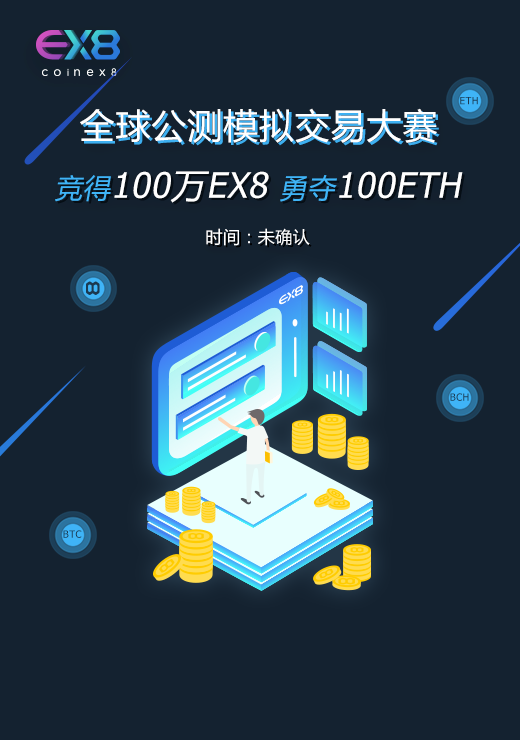
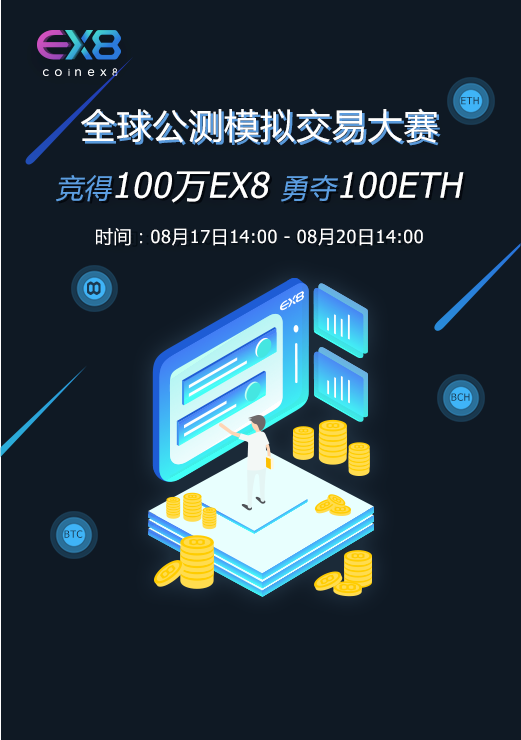
timer

diff --git a/src/routes/index.tsx b/src/routes/index.tsx
@@ -153,6 +153,27 @@ const AsyncAssets = Loadable({
      delay: 200, 
 });
 
+//模拟交易活动   首页
+const AsyncDeal = Loadable({
+    loader:()=>import('../views/activity/Deal'),
+    loading: Loading,
+     delay: 200, 
+});
+
+//模拟交易活动   模拟交易
+const AsyncDealTrade = Loadable({
+    loader:()=>import('../views/activity/DealTrade'),
+    loading: Loading,
+     delay: 200, 
+});
+
+//模拟交易活动   模拟钱包
+const AsyncDealWallet = Loadable({
+    loader:()=>import('../views/activity/DealWallet'),
+    loading: Loading,
+     delay: 200, 
+});
+
 //资讯页面
 const AsyncNews = Loadable({
     loader:()=>import('../views/News'),
@@ -305,6 +326,9 @@ const MyRouter = (props) => (
                         <PrivateRoute path="/googlecheck"  component={AsyncGoogleCheck} loginState={props.loginState}></PrivateRoute>
                         <Route path="/site" component={AsyncSiteContent}></Route>
                         <PrivateRoute path="/assets" component={AsyncAssets}  loginState={props.loginState}></PrivateRoute>
+                        <PrivateRoute path="/deal" component={AsyncDeal}  loginState={props.loginState}></PrivateRoute>
+                        <PrivateRoute path="/dealTrade" component={AsyncDealTrade}  loginState={props.loginState}></PrivateRoute>
+                        <PrivateRoute path="/dealWallet" component={AsyncDealWallet}  loginState={props.loginState}></PrivateRoute>
                         <Route path="/login" component={Login}></Route>
                         <Route path="/register" component={Regiester} ></Route>
                         <Route path="/registerSucess" component={RegiesterSucess}></Route>

diff --git a/src/views/activity/Deal.js b/src/views/activity/Deal.js
@@ -82,10 +82,29 @@ export class Deal extends Component {
     }
 
     componentDidMount() {
-
+        this.leftTimer();
     }
 
-    
+    leftTimer = (year,month,day,hour,minute,second) =>{ 
+      var leftTime = (new Date(year,month-1,day,hour,minute,second)) - (new Date()); //计算剩余的毫秒数 
+      var days = parseInt(leftTime / 1000 / 60 / 60 / 24 , 10); //计算剩余的天数 
+      var hours = parseInt(leftTime / 1000 / 60 / 60 % 24 , 10); //计算剩余的小时 
+      var minutes = parseInt(leftTime / 1000 / 60 % 60, 10);//计算剩余的分钟 
+      var seconds = parseInt(leftTime / 1000 % 60, 10);//计算剩余的秒数 
+      days = this.checkTime(days); 
+      hours = this.checkTime(hours); 
+      minutes = this.checkTime(minutes); 
+      seconds = this.checkTime(seconds); 
+      setInterval(() =>{this.leftTimer(2018,8,17,0,0,0)},1000); 
+      document.getElementById("timer").innerHTML = days+":" + hours+":" + minutes+":"+seconds;  
+    } 
+    checkTime = (i) =>{ //将0-9的数字前面加上0，例1变为01 
+      if(i<10) 
+      { 
+        i = "0" + i; 
+      } 
+      return i; 
+    } 
     
  
     render() {
@@ -94,6 +113,7 @@ export class Deal extends Component {
             <div className="deal">
                 <div className='act_banner'>
                     <img src={banner} alt=""/>
+                    <div id='timer'></div>
                 </div>
                 <div className='act_caption'>
                     <h1 className='caption_title'>//活动说明//</h1>

diff --git a/src/layouts/Nav.tsx b/src/layouts/Nav.tsx
@@ -373,7 +373,15 @@ class Nav extends React.Component<NavProps, any> {
                                     exact
                                     onClick={this.removeClass}  
                                     className={cs("animated  nav-name")}
-                                    activeClassName="nav-active">{intl.get('邀请')}</NavLink> 
+                                    activeClassName="nav-active">{intl.get('邀请')}
+                                </NavLink> 
+                                <NavLink 
+                                    to="/deal"
+                                    exact
+                                    onClick={this.removeClass}  
+                                    className={cs("animated  nav-name")}
+                                    activeClassName="nav-active">{intl.get('模拟交易大赛')} <span className="Torch"></span>
+                                </NavLink> 
                             </div>
                             <div className="nav-right">
                                 {

diff --git a/src/views/activity/Deal.scss b/src/views/activity/Deal.scss
@@ -6,6 +6,17 @@
 	text-align: center;
 	padding-bottom: 50px;
 	background: #111a24;
+	#timer {
+		color: #fc7fff;
+		position: absolute;
+		top: 337px;
+		font-size: 58px;
+	}
+	.act_banner {
+		position: relative;
+		display: flex;
+		justify-content: center;
+	}
 	.act_banner img {
 		width: 100%;
 	}

diff --git a/src/layouts/Nav.scss b/src/layouts/Nav.scss
@@ -330,3 +330,11 @@
     }
    
 }
+.Torch {
+    width: 20px;
+    height: 24px;
+    display: inline-block;
+    position: relative;
+    top: 3px;
+    background: url(../assets/home_ico-huo.png) no-repeat 100% 100%;
+}
